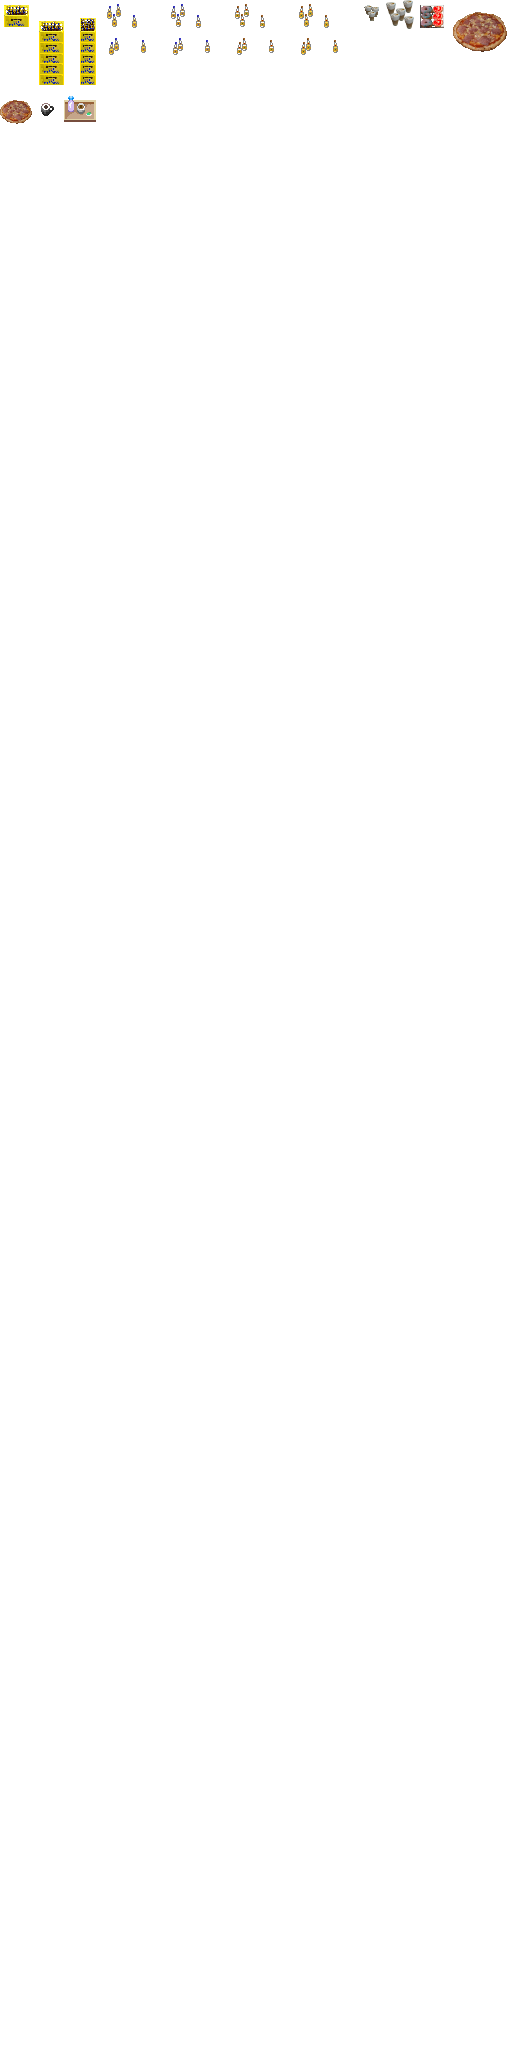
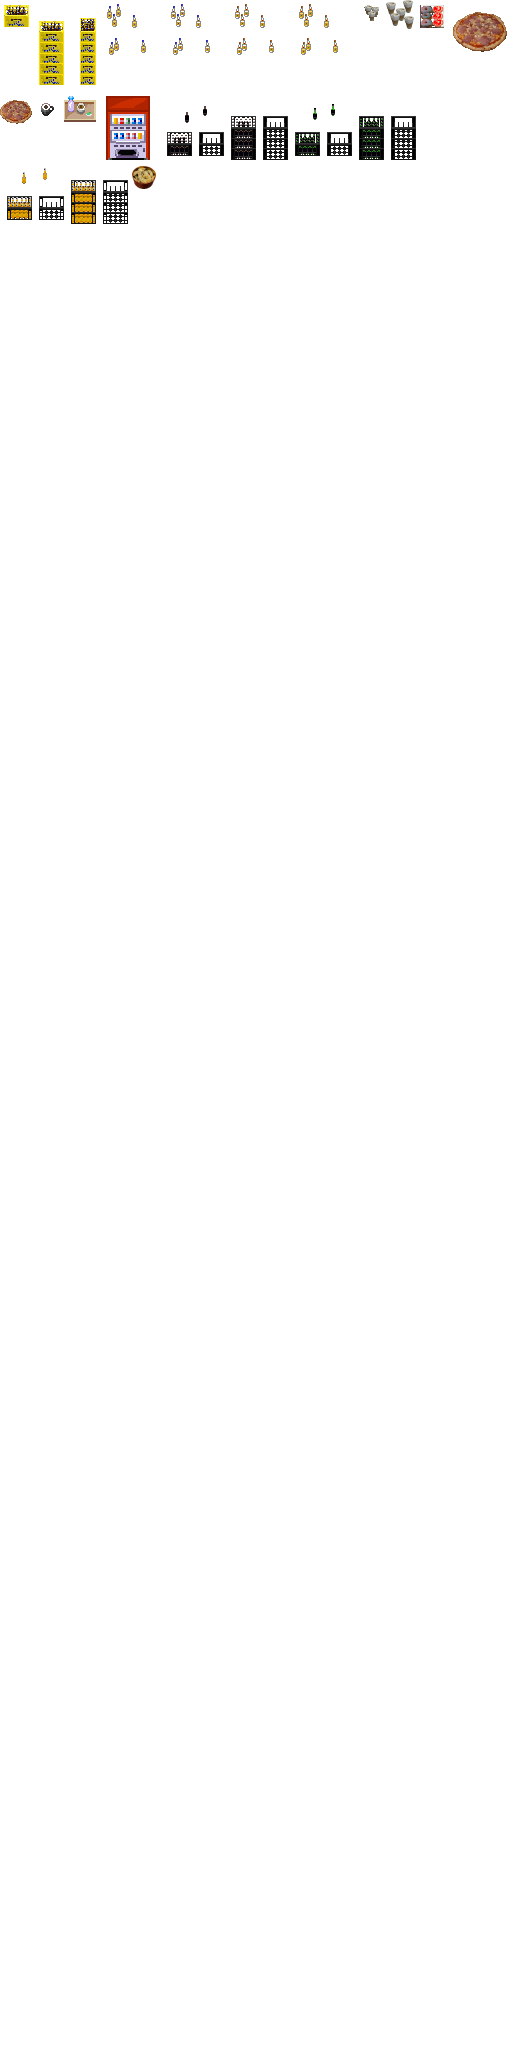
auto add new rc3 tiles

Changed region(s): [[0.0, 0.0312, 0.8125, 0.125]]

diff --git a/src/tiles.rc3.world-4 2/community/cert/scripts/check_imgs.py b/src/tiles.rc3.world-4 2/community/cert/scripts/check_imgs.py
@@ -60,7 +60,7 @@ if __name__ == "__main__":
     print('Absolute path:', os.getcwd() + '/imgs')
     for root, dirs, files in os.walk(BASE_DIR):
         for file in files:
-         if file.endswith('.png'):
+         if file.lower().endswith('.png'):
           x,y = Image.open(os.path.join(root, file)).size
           if not(x % 32 == y % 32 == 0 and x <= TILESHEET_WIDTH):
               sys.exit("%s has wrong dimensions." % file)

diff --git a/src/tiles.rc3.world-4 2/community/cert/README.md b/src/tiles.rc3.world-4 2/community/cert/README.md
@@ -1,13 +1,49 @@
 # From cert.ccc.de with love
-This are our tiles/sprites for the rc3 workadventure.
+This are our over 250 individual tiles/sprites for the rc3 workadventure.
 
 * Composed tilesets are located in imgs/tilesheets
 * Sets ending with _set are deprecated, please don't use them anymore.
 
-## cert_safety
-We provide a special cert_safety tileset for everyone to keep their virtual space as safe as possible.
 
 ## check_imgs.py
 We strongly recommend using this script as pre-commit script.
 It checks all image dimensions and compiles a tilesheet for every directory if wanted.
 
+
+# Usage
+We recommend to use our compiled tilesheets instead of picking indivual sprites, but it's up to you.
+They are safe to use, no existing tiles will me replaced or moved inside the sheet.
+
+## cert_safety
+We provide a special cert_safety tileset for everyone to keep their virtual space as safe as possible.
+Properly secured world may be CERTified by us.
+
+## c3gelb
+cyber hygiene is as important as washing your real hands, we got you covered.
+
+## doors
+A variety of different doors.
+
+## furniture
+You need a desk + chairs, pick one!
+
+## storage
+shelves + boxes
+
+## leipzig_messe
+In case your missing the glasshalle
+
+## c3_deko
+You're looking for some iconic sprites from previous ccc events? This tileset may contain what you're looking for.
+
+## rc3
+rc3 related sprites like posters.
+
+## food_and_drink
+Mate bottles+crates, coffee...
+
+## misc
+everything left.
+
+# testing 
+please don't use this, its only purpose is testing of new sprites before releasing them.

diff --git a/src/tiles.rc3.world-4 2/README.md b/src/tiles.rc3.world-4 2/README.md
@@ -24,6 +24,13 @@ This tilesets don't have a dedicated function and should only be used as deco.
 ### mullana tilesets
 see [Readme-Mullana-Tilesets.pdf](Readme-Mullana-Tilesets.pdf)
 
+## Community Tilesets
+You need to initialize the submodules first.
+
+`git submodule init`
+
+`git submodule update --remote`
+
 ### community/cert
 We provide well 250 sorted sprites from mate crates to a security kit for your very own assembly map ;)
 Please take a look at its own README.md for more informations.
@@ -32,4 +39,4 @@ Please take a look at its own README.md for more informations.
 If you want to contribute your tilesets to this page, please put them in a git repo and send us an email with a cloneable link to your repository to and we'll add them here.
 
 ## Contact
-You can reach us at tiles@c3events.de, for questions, proposals, improvements or if you want to share your own tilesets.
+You can reach us at [tiles@rc3.world](mailto:tiles@rc3.world), for questions, proposals, improvements or if you want to share your own tilesets.
